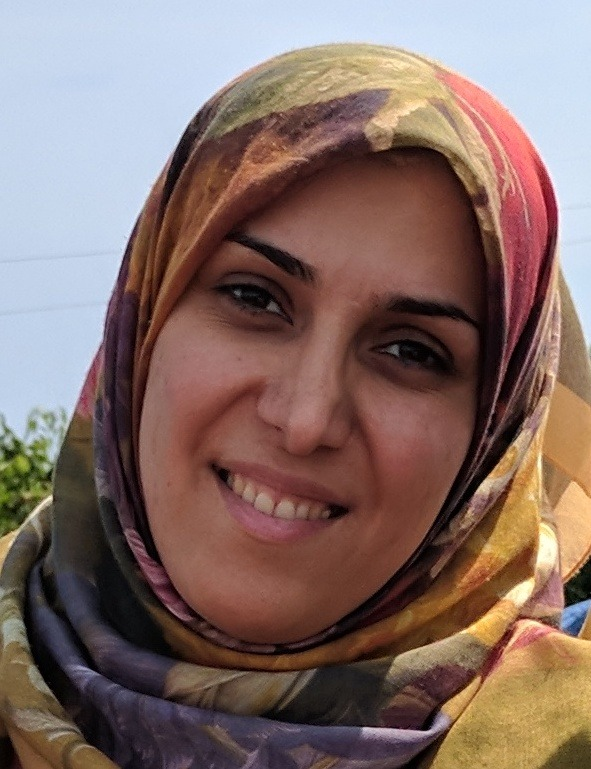
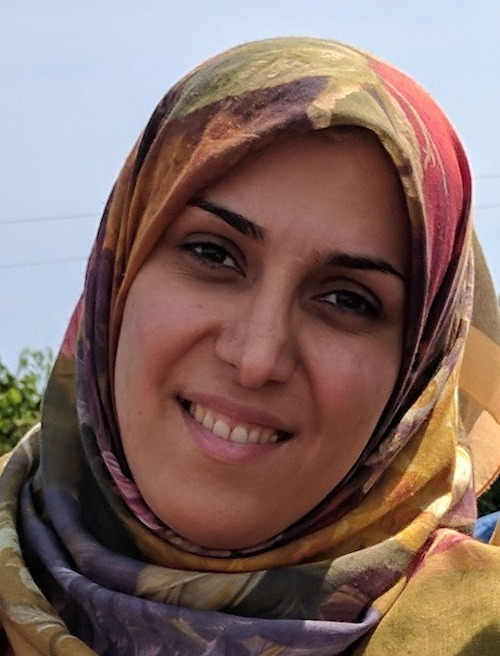
adding mr mobaraki and adjust sizes

diff --git a/index.html b/index.html
@@ -771,7 +771,7 @@
                     <div class="single-team wow fadeInUp"
                          data-wow-delay="0.5s">
                         <div class="team-thumb">
-                            <img src="img/team/team5.JPG"
+                            <img src="img/team/team5.jpeg"
                                  alt="">
                         </div>
                         <div class="team-details">
@@ -780,6 +780,24 @@
                                 <h5>مشاور و رواندرمانگر</h5>
                                 <p>                                    متخصص در حیطه مشاوره خانواده، مشکلات فردی و رشد شخصی
                                     دانشجوی دکتری مشاوره در دانشگاه علامه طباطبایی</p>
+                            </div>
+                        </div>
+                    </div>
+                </div>
+                <div class="col-lg-4 col-md-6 col-xs-12">
+                    <div class="single-team wow fadeInUp"
+                         data-wow-delay="0.5s">
+                        <div class="team-thumb">
+                            <img src="img/team/team6.jpeg"
+                                 alt="">
+                        </div>
+                        <div class="team-details">
+                            <div class="team-inner">
+                                <h4 class="team-title">علی مبارکی</h4>
+                                <h5>مشاور تحصیلی</h5>
+                                <p>رتبه ۷ کنکور تجربی
+                                    مشاور کنکور و پشتیبان تحصیلی
+                                    دانشجو پزشکی شهید بهشتی</p>
                             </div>
                         </div>
                     </div>
